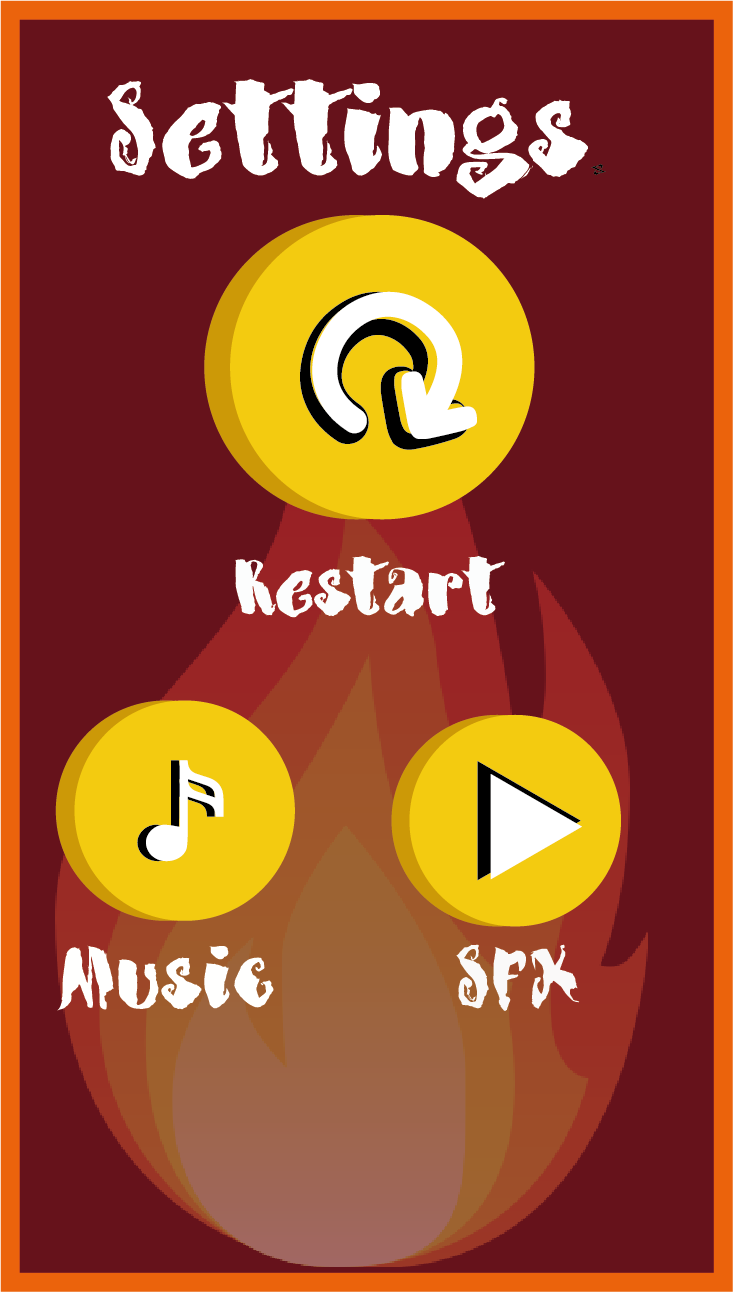
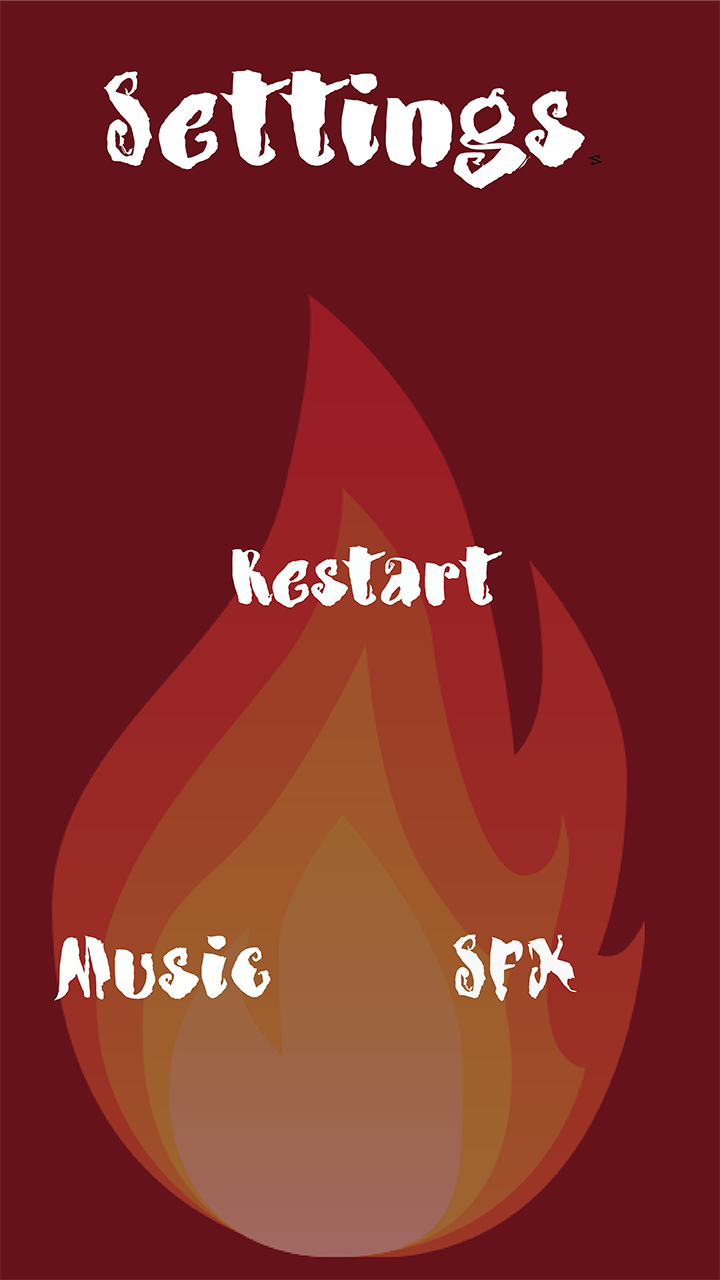
Pausa 2.0 Cambiar imágenes y su posición

diff --git a/core/src/mx/itesm/dragon/Pantallas/PantallaConfiguracion.java b/core/src/mx/itesm/dragon/Pantallas/PantallaConfiguracion.java
@@ -47,7 +47,31 @@ public class PantallaConfiguracion extends Pantalla {
         ImageButton btnRegresar = new ImageButton(
                 new TextureRegionDrawable(
                         new TextureRegion(
-                                new Texture("BotonRegresar.png"))));
+                                new Texture("BotonRegresar.png"))),
+                new TextureRegionDrawable(
+                        new TextureRegion(
+                                new Texture("BotonRegresar2.png"))));
+        ImageButton btnSFX = new ImageButton(
+                new TextureRegionDrawable(
+                        new TextureRegion(
+                                new Texture("Boton SFX.png"))),
+                new TextureRegionDrawable(
+                        new TextureRegion(
+                                new Texture("Boton SFX Presionado.png"))));
+        ImageButton btnMusic = new ImageButton(
+                new TextureRegionDrawable(
+                        new TextureRegion(
+                                new Texture("BotonMusica1.png"))),
+                new TextureRegionDrawable(
+                        new TextureRegion(
+                                new Texture("BotonMusica2.png"))));
+        ImageButton btnReset = new ImageButton(
+                new TextureRegionDrawable(
+                        new TextureRegion(
+                                new Texture("BotonReset.png"))),
+                new TextureRegionDrawable(
+                        new TextureRegion(
+                                new Texture("BotonResetPresionado.png"))));
 
         musica_f = Gdx.audio.newMusic(Gdx.files.internal("Kevin MacLeod _ Bumbly March_preconfig.mp3"));
         regresar = Gdx.audio.newSound(Gdx.files.internal("regresar.wav"));
@@ -55,22 +79,13 @@ public class PantallaConfiguracion extends Pantalla {
         musica_f.setVolume(1);
         musica_f.play();
         musica_f.setLooping(true);
-        /* TODO INCORPORAR LAS TEXTURAS DE LOS BOTONTES DE EFECTOS Y MUSICA.
 
-        ImageButton btnSFX = new ImageButton(
-                new TextureRegionDrawable(
-                        new TextureRegion(
-                                new Texture(""))));
-        ImageButton btnMusic = new ImageButton(
-                new TextureRegionDrawable(
-                        new TextureRegion(
-                                new Texture(""))));
-        */
 
         // Posición de los botones.
-        btnRegresar.setPosition(0,ALTO - btnRegresar.getHeight());
-        // TODO btnSFX.setPosition(); POR DEFINIR.
-        // TODO btnMusic.setPosition(); POR DEFINIR.
+        btnReset.setPosition(ANCHO / 2 - btnReset.getWidth() / 2, ALTO / 2 + btnReset.getHeight() / 2);
+        btnRegresar.setPosition(ANCHO - btnRegresar.getWidth() - 20,20);
+        btnMusic.setPosition(40, ALTO / 3.5f);
+        btnSFX.setPosition(ANCHO - btnSFX.getWidth() * 1.3f, btnMusic.getY());
 
         // Detecta si el usuario hace click en algún actor.
         btnRegresar.addListener(new ClickListener() {
@@ -83,7 +98,7 @@ public class PantallaConfiguracion extends Pantalla {
             }
         });
 
-        /* TODO FALTA HABILITAR LOS BOTONES DE EFECTOS Y MUSICA.
+
         btnSFX.addListener(new ClickListener() {
             @Override
             public void clicked(InputEvent event, float x, float y) {
@@ -98,15 +113,22 @@ public class PantallaConfiguracion extends Pantalla {
                 // Cambia de pantalla, solo lo puede hacerlo 'juego'.
             }
         });
-        */
+
+        btnReset.addListener(new ClickListener() {
+            @Override
+            public void clicked(InputEvent event, float x, float y) {
+                super.clicked(event, x, y);
+                // Cambia de pantalla, solo lo puede hacerlo 'juego'.
+            }
+        });
 
         // Se agregan elementos a la Pantalla Configuración.
         stageConfiguracion.addActor(btnRegresar);
-
-        /* TODO DESCOMENTE SOLO CUANDO SE TENGA LA POSICION Y TEXTURA DEL BOTON.
         stageConfiguracion.addActor(btnSFX);
         stageConfiguracion.addActor(btnMusic);
-        */
+        stageConfiguracion.addActor(btnMusic);
+        stageConfiguracion.addActor(btnReset);
+
 
         // Indica quién escucha y atiende eventos.
         Gdx.input.setInputProcessor(stageConfiguracion);

diff --git a/core/src/mx/itesm/dragon/Pantallas/PJP.java b/core/src/mx/itesm/dragon/Pantallas/PJP.java
@@ -67,6 +67,7 @@ public class PJP extends Pantalla {
     private ImageButton btnReanudar;
     private ImageButton btnMusica;
     private ImageButton btnMenu;
+    private ImageButton btnSFX;
 
     private Estado estado;
 
@@ -95,7 +96,7 @@ public class PJP extends Pantalla {
     public void show() {
         borrarPantalla();
         inicializacion();
-        setStagePausa();
+        //setStagePausa();
         setStageJuego();
     }
 
@@ -129,10 +130,10 @@ public class PJP extends Pantalla {
         stagePausa = new Stage(vista);
         fondo = new Fondo(new Texture("fondoNivel1.png"));
         //Pausa
-        fondoPausa = new Fondo(new Texture("cuadro transp.png"));
+        fondoPausa = new Fondo(new Texture("FondoPausa.png"));
         btnPausa = new ImageButton(
                 new TextureRegionDrawable(new TextureRegion(
-                        new Texture("BotonRegresar.png"))));
+                        new Texture("BotonPausa.png"))));
         btnReanudar = new ImageButton(
                 new TextureRegionDrawable(new TextureRegion(
                         new Texture("BotonReanudar1.png"))),
@@ -143,6 +144,13 @@ public class PJP extends Pantalla {
                         new Texture("BotonMusica1.png"))),
                 new TextureRegionDrawable(new TextureRegion(
                         new Texture("BotonMusica2.png"))));
+        btnSFX = new ImageButton(
+                new TextureRegionDrawable(
+                        new TextureRegion(
+                                new Texture("Boton SFX.png"))),
+                new TextureRegionDrawable(
+                        new TextureRegion(
+                                new Texture("Boton SFX Presionado.png"))));
         btnMenu = new ImageButton(
                 new TextureRegionDrawable(new TextureRegion(
                         new Texture("BotonMenu1.png"))));
@@ -164,9 +172,10 @@ public class PJP extends Pantalla {
 
     private void setStagePausa() {
         // Posisción inicial de los elementos
-        btnMenu.setPosition(ANCHO/3 - 10,ALTO / 8);
-        btnReanudar.setPosition(ANCHO/3,ALTO - btnReanudar.getHeight() * 2);
-        btnMusica.setPosition(ANCHO/3,ALTO - btnReanudar.getHeight() * 3.5f);
+        btnReanudar.setPosition(ANCHO / 3,ALTO - btnReanudar.getHeight() * 2.3f);
+        btnMusica.setPosition(ANCHO / 8,btnReanudar.getY() - 300);
+        btnSFX.setPosition(btnMusica.getX() + 330, btnMusica.getY());
+        btnMenu.setPosition(ANCHO / 3,ALTO / 6);
 
         btnMenu.addListener(new ClickListener(){
             @Override
@@ -174,12 +183,6 @@ public class PJP extends Pantalla {
                 juego.setScreen(new PantallaMenuPrincipal(juego));
             }
         });
-
-        // Se anexan los Actores a la Escena.
-        stagePausa.addActor(btnMenu);
-        stagePausa.addActor(btnMusica);
-        stagePausa.addActor(btnReanudar);
-
 
     }
 
@@ -214,6 +217,9 @@ public class PJP extends Pantalla {
 
         switch (estado) {
             case JUGANDO:
+                stageJuego.addActor(btnPausa);
+                btnMenu.setPosition(1000,0); // El actor sigue presente pero en una posiciín inaccesible
+                //reanudar.play();
                 actualizarObjetos(delta);
                 actualizarCamara();
                 moverCamara();
@@ -244,6 +250,14 @@ public class PJP extends Pantalla {
                 }
                 break;
             case PAUSA:
+
+
+                stagePausa.addActor(btnMenu);
+                stagePausa.addActor(btnMusica);
+                stagePausa.addActor(btnReanudar);
+                stagePausa.addActor(btnSFX);
+
+                setStagePausa();
                 batch.begin();
                 fondoPausa.render(batch);
                 batch.end();
@@ -347,6 +361,8 @@ public class PJP extends Pantalla {
         }
     }
 
+
+
     @Override
     public void pause() {
         estado = Estado.PAUSA;
@@ -369,6 +385,7 @@ public class PJP extends Pantalla {
         pausa.dispose();
         reanudar.dispose();
         impacto.dispose();
+
 
     }
 }

diff --git a/core/src/mx/itesm/dragon/Pantallas/PantallaAcercaDe.java b/core/src/mx/itesm/dragon/Pantallas/PantallaAcercaDe.java
@@ -56,15 +56,18 @@ public class PantallaAcercaDe extends Pantalla {
         ImageButton btnRegresar = new ImageButton(
                 new TextureRegionDrawable(
                         new TextureRegion(
-                                new Texture("BotonRegresar.png"))));
+                                new Texture("BotonRegresar.png"))),
+                new TextureRegionDrawable(
+                        new TextureRegion(
+                                new Texture("BotonRegresar2.png"))));
         ImageButton btnAna = new ImageButton(
                 new TextureRegionDrawable(
                         new TextureRegion(
-                                new Texture("Boton Acerca de Charlotte.png"))));
+                                new Texture("Boton Acerca de Ana.png"))));
         ImageButton btnCharlotte = new ImageButton(
                 new TextureRegionDrawable(
                         new TextureRegion(
-                                new Texture("Boton Acerca de Ana.png"))));
+                                new Texture("Boton Acerca de Charlotte.png"))));
         ImageButton btnJorge = new ImageButton(
                 new TextureRegionDrawable(
                         new TextureRegion(
@@ -79,12 +82,12 @@ public class PantallaAcercaDe extends Pantalla {
                                 new Texture("Boton Acerca de Marco.png"))));
 
         // Posición de los botones.
-        btnRegresar.setPosition(0,ALTO - btnRegresar.getHeight());
-        btnAna.setPosition(220,400);
-        btnCharlotte.setPosition(220,800);
-        btnJorge.setPosition(120,200);
-        btnLuis.setPosition(120,1000);
-        btnMarco.setPosition(120,600);
+        btnLuis.setPosition(85,900);
+        btnCharlotte.setPosition(350,650);
+        btnJorge.setPosition(85,400); //120,200
+        btnAna.setPosition(350,200); //220,400
+        btnMarco.setPosition(85,50); //120,600
+        btnRegresar.setPosition(ANCHO - btnRegresar.getWidth() - 20,20);
 
         // Detecta si el usuario hace click en algún actor.
         btnRegresar.addListener(new ClickListener() {
@@ -106,6 +109,7 @@ public class PantallaAcercaDe extends Pantalla {
         stageAcercaDe.addActor(btnJorge);
         stageAcercaDe.addActor(btnLuis);
         stageAcercaDe.addActor(btnMarco);
+
         // Indica quién escucha y atiende eventos.
         Gdx.input.setInputProcessor(stageAcercaDe);
     }

diff --git a/core/src/mx/itesm/dragon/Pantallas/PantallaMenuPrincipal.java b/core/src/mx/itesm/dragon/Pantallas/PantallaMenuPrincipal.java
@@ -44,7 +44,7 @@ public class PantallaMenuPrincipal extends Pantalla {
         stageMenu = new Stage(vista);
 
         // Creacion del fondo.
-        fondo = new Fondo(new Texture("FondoMenuPrincipal.png"));
+        fondo = new Fondo(new Texture("FondoMenuPrincipal.jpg"));
 
         // Creacion de la musica de fondo y efectos de sonido
         musica_f = Gdx.audio.newMusic(Gdx.files.internal("premenu.mp3"));
